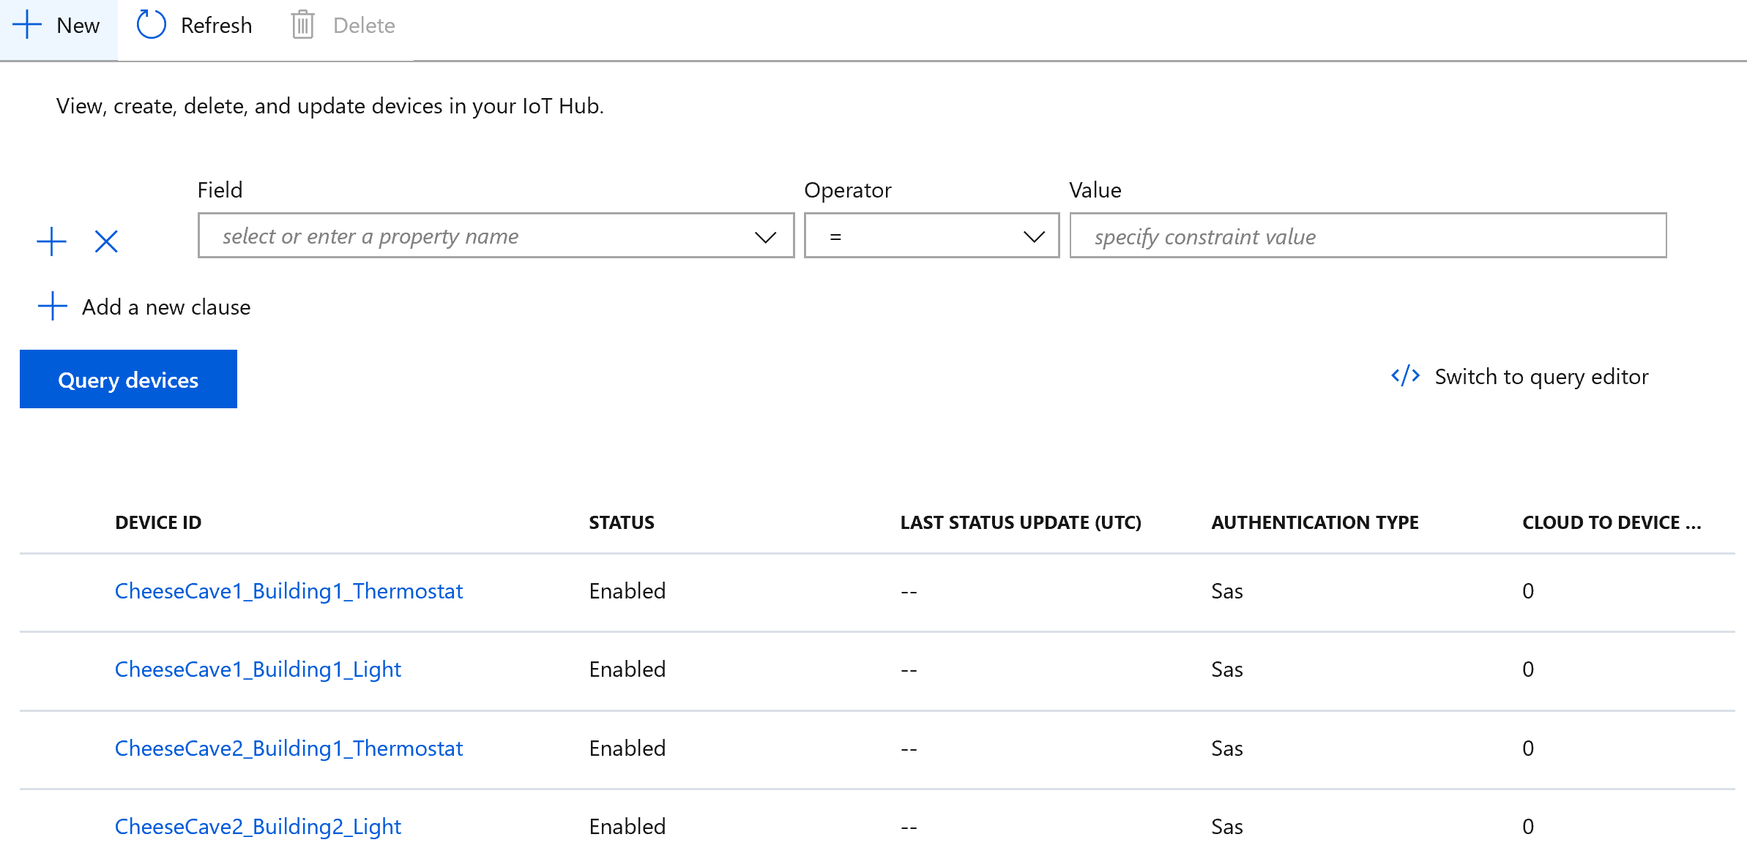
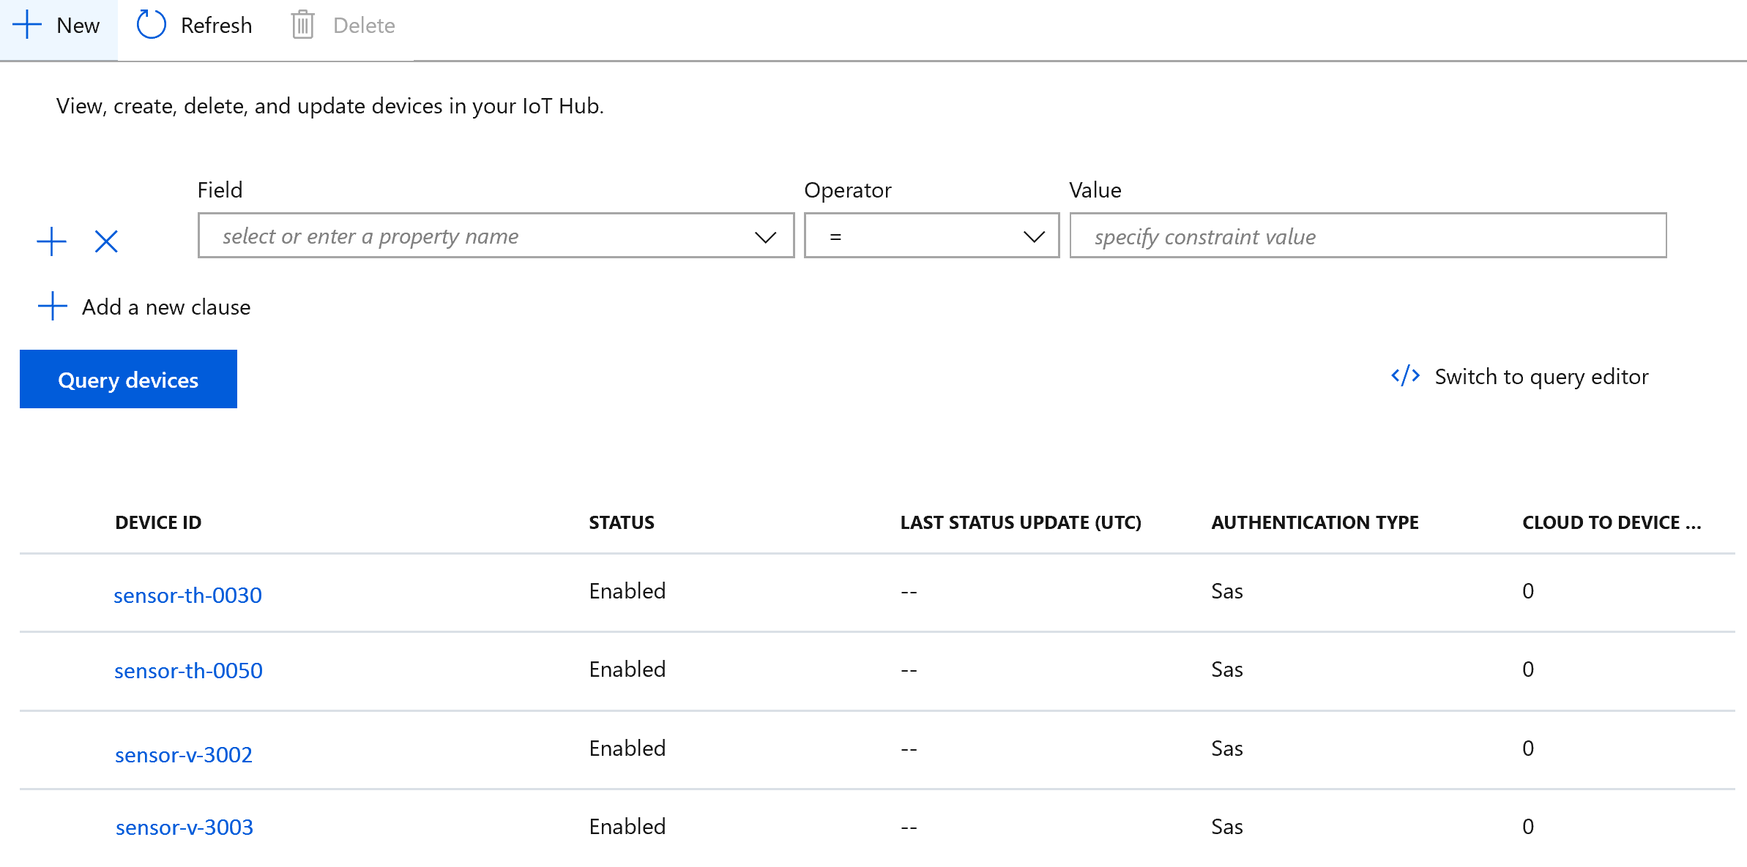
Global rename - still needs individual checks

diff --git a/Instructions/Labs/LAB_AK_12-setup-an-iot-edge-gateway.md b/Instructions/Labs/LAB_AK_12-setup-an-iot-edge-gateway.md
@@ -172,7 +172,7 @@ In this exercise, you will deploy an Ubuntu Server VM with Azure IoT Edge runtim
 
 1. In the resource group Name popup, under **Name**, enter **rg-az220vm** and then click **OK**.
 
-1. Under **Instance details**, in the **Virtual machine name** textbox, enter **AZ-220-VM-EDGEGW-{your-id}**.
+1. Under **Instance details**, in the **Virtual machine name** textbox, enter **vm-az220-gw-{your-id}**.
 
 1. In the **Region** dropdown, select the region where your Azure IoT Hub is provisioned.
 
@@ -208,7 +208,7 @@ In this exercise, you will deploy an Ubuntu Server VM with Azure IoT Edge runtim
 
 ### Exercise 3: Generate and Configure IoT Edge Device CA Certificates
 
-In this exercise, you will generate test certificates using Linux. You will do this on the `AZ-220-VM-EDGEGW-{your-id}` Virtual Machine using a helper script contained within the "Starter" folder for this lab that you created during lab 3 of this course.
+In this exercise, you will generate test certificates using Linux. You will do this on the `vm-az220-gw-{your-id}` Virtual Machine using a helper script contained within the "Starter" folder for this lab that you created during lab 3 of this course.
 
 1. Verify that the IoT Edge virtual machine has been deployed successfully.
 
@@ -224,11 +224,11 @@ In this exercise, you will generate test certificates using Linux. You will do t
 
     You can **Edit** your dashboard to rearrange the tiles if that makes it easier to access your resources.
  
-1. On the **rg-az220vm** resource group tile, to open the Edge Gateway virtual machine, click **AZ-220-GWVM-EDGE-{your-id}**.
+1. On the **rg-az220vm** resource group tile, to open the Edge Gateway virtual machine, click **vm-az220-gw-{your-id}**.
 
     > **Note**: Since the resource names are long and some are similar, be sure to select the VM, not the Disk, Public IP address, or Network security group.  
 
-1. At the top of the **AZ-220-GWVM-EDGE-{your-id}** blade, click **Connect**, and then click **SSH**.
+1. At the top of the **vm-az220-gw-{your-id}** blade, click **Connect**, and then click **SSH**.
 
 1. On the **Connect** pane, under **4. Run the example command below to connect to your VM**, copy the example command.
 
@@ -249,7 +249,7 @@ In this exercise, you will generate test certificates using Linux. You will do t
 1. Once connected, the terminal will change to show the name of the Linux VM, similar to the following. This tells you which VM you are connected to.
 
     ``` bash
-    username@AZ-220-VM-EDGEGW-{your-id}:~$
+    username@vm-az220-gw-{your-id}:~$
     ```
 
     > **Important**: When you connect, you will likely be told there are outstanding OS updates for the Edge VM.  We are ignoring this for our lab purposes, but in production, you always want to be sure to keep your Edge devices up-to-date.
@@ -337,7 +337,7 @@ In this exercise, you will generate test certificates using Linux. You will do t
     The version output will be similar to the following:
 
     ```bash
-    username@AZ-220-VM-EDGEGW:~/lab12$ iotedge version
+    username@vm-az220-gw:~/lab12$ iotedge version
     iotedge 1.0.8 (208b2204fd30e856d00b280112422130c104b9f0)
     ```
 
@@ -399,9 +399,9 @@ In this exercise, you will generate test certificates using Linux. You will do t
     exit
     ```
 
-    Next, you need to "download" the `MyEdgeDeviceCA` certificate from the `AZ-220-VM-EDGEGW` virtual machine so that it can be used to configure the IoT Edge device enrollment within Azure IoT Hub Device Provisioning Service.
+    Next, you need to "download" the `MyEdgeDeviceCA` certificate from the `vm-az220-gw` virtual machine so that it can be used to configure the IoT Edge device enrollment within Azure IoT Hub Device Provisioning Service.
 
-1. At the Cloud Shell command prompt, to download the `~/lab12` directory from the **AZ-220-VM-EDGEGW** virtual machine to the **Cloud Shell** storage, enter the following commands:
+1. At the Cloud Shell command prompt, to download the `~/lab12` directory from the **vm-az220-gw** virtual machine to the **Cloud Shell** storage, enter the following commands:
 
     ```bash
     mkdir lab12
@@ -428,7 +428,7 @@ In this exercise, you will generate test certificates using Linux. You will do t
     certs       index.txt  index.txt.attr.old  newcerts       private              serial.old
     ```
 
-    Once the files are copied to Cloud Shell storage from the `AZ-220-VM-EDGEGW` virtual machine, you will be able to easily download any of the IoT Edge Device certificate and key files to your local machine as necessary. Files can be downloaded from the Cloud Shell using the `download <filename>` command.  We will do this later in the lab.
+    Once the files are copied to Cloud Shell storage from the `vm-az220-gw` virtual machine, you will be able to easily download any of the IoT Edge Device certificate and key files to your local machine as necessary. Files can be downloaded from the Cloud Shell using the `download <filename>` command.  We will do this later in the lab.
 
 ### Exercise 4: Create IoT Edge Device Identity in IoT Hub using Azure Portal
 
@@ -446,7 +446,7 @@ In this exercise, you will use Azure IoT Hub to create a new IoT Edge Device ide
 
 1. At the top of the pane, click **Add an IoT Edge device**.
 
-1. On the **Create a device** blade, in the **Device ID** field, enter **AZ-220-VM-EDGEGW-{your-id}**.
+1. On the **Create a device** blade, in the **Device ID** field, enter **vm-az220-gw-{your-id}**.
 
     Be sure to replace {your-id} with the value that you created at the beginning of the course. This is the device identity will be used for authentication and access control.
 
@@ -458,15 +458,15 @@ In this exercise, you will use Azure IoT Hub to create a new IoT Edge Device ide
 
     After a moment, the new IoT Edge Device will added to the list of IoT Edge devices.
 
-1. Under **Device ID**, click **AZ-220-VM-EDGEGW-{your-id}**.
+1. Under **Device ID**, click **vm-az220-gw-{your-id}**.
 
-1. On the **AZ-220-VM-EDGEGW-{your-id}** blade, copy the **Primary Connection String**.
+1. On the **vm-az220-gw-{your-id}** blade, copy the **Primary Connection String**.
 
     A copy button is provided to the right of the value.
 
 1. Save the value of the **Primary Connection String** to a file, making a note about which device it is associated with.
 
-1. On the **AZ-220-VM-EDGEGW-{your-id}** blade, notice that the list of **Modules** is limited to **\$edgeAgent** and **\$edgeHub**.
+1. On the **vm-az220-gw-{your-id}** blade, notice that the list of **Modules** is limited to **\$edgeAgent** and **\$edgeHub**.
 
     The IoT Edge Agent (`$edgeAgent`) and IoT Edge Hub (`$edgeHub`) modules are a part of the IoT Edge Runtime. The Edge Hub is responsible for communication, and the Edge Agent deploys and monitors the modules on the device.
 
@@ -495,21 +495,21 @@ In this exercise, you will use Azure IoT Hub to create a new IoT Edge Device ide
 
 ### Exercise 5: Setup IoT Edge Gateway Hostname
 
-In this exercise, you will configure the DNS name for Public IP Address of the **AZ-220-VM-EDGEGW-{your-id}** simulated Edge device, and configure that DNS name as the `hostname` of the IoT Edge Gateway device.
+In this exercise, you will configure the DNS name for Public IP Address of the **vm-az220-gw-{your-id}** simulated Edge device, and configure that DNS name as the `hostname` of the IoT Edge Gateway device.
 
 1. If necessary, log in to your Azure portal using your Azure account credentials.
 
     If you have more than one Azure account, be sure that you are logged in with the account that is tied to the subscription that you will be using for this course.
 
-1. On your Dashboard page, to open your IoT Edge virtual machine, click **AZ-220-VM-EDGEGW-{your-id}**.
+1. On your Dashboard page, to open your IoT Edge virtual machine, click **vm-az220-gw-{your-id}**.
 
-1. On the **AZ-220-VM-EDGEGW-{your-id}** blade, in the upper section, locate the **DNS name** field.
+1. On the **vm-az220-gw-{your-id}** blade, in the upper section, locate the **DNS name** field.
 
     If the "Essentials" section at the top of the Overview blade is collapsed, to expand it, click **Essentials**.
 
 1. To the right of the **DNS name** field, click **Configure**.
 
-1. On the **AZ-220-VM-EDGEGW-{your-id}-ip - Configuration** blade, in the **DNS name label** field, enter **az-220-vm-edgegw-{your-id}**
+1. On the **vm-az220-gw-{your-id}-ip - Configuration** blade, in the **DNS name label** field, enter **az-220-vm-edgegw-{your-id}**
 
     This label must be globally unique, and only lowercase letters, numbers and hyphens.
 
@@ -519,7 +519,7 @@ In this exercise, you will configure the DNS name for Public IP Address of the *
 
     It should be similar to the following: `.westus2.cloudapp.azure.com`, although yours will probably list a different region.
 
-    The full DNS name is comprised of the `AZ-220-VM-EDGEGW-{your-id}` value suffixed by this text located below the **DNS name label** field.
+    The full DNS name is comprised of the `vm-az220-gw-{your-id}` value suffixed by this text located below the **DNS name label** field.
 
     For example, a full DNS name could be:
 
@@ -529,11 +529,11 @@ In this exercise, you will configure the DNS name for Public IP Address of the *
 
     All Public IP Address DNS names in the standard Azure commercial cloud will be at the **.cloudapp.azure.com** domain name. This example is for the VM being hosted in the **westus2** Azure region. This part of the DNS name will vary depending on what Azure region the VM is hosted within.
 
-    Setting the DNS name for the Public IP Address of the **AZ-220-VM-EDGEGW** virtual machine will give it a FQDN (Fully Qualified Domain Name) for the downstream device(s) to use as the `GatewayHostName` to connect to it. Since the VM, in this case, is accessible across the Internet, an Internet DNS name is needed. If the Azure IoT Edge Gateway were hosted in a Private or Hybrid network, then the machine name would meet the requirements of a `GatewayHostName` for on-premises downstream devices to connect.
+    Setting the DNS name for the Public IP Address of the **vm-az220-gw** virtual machine will give it a FQDN (Fully Qualified Domain Name) for the downstream device(s) to use as the `GatewayHostName` to connect to it. Since the VM, in this case, is accessible across the Internet, an Internet DNS name is needed. If the Azure IoT Edge Gateway were hosted in a Private or Hybrid network, then the machine name would meet the requirements of a `GatewayHostName` for on-premises downstream devices to connect.
 
-1. Make a record of the full DNS name for your **AZ-220-VM-EDGEGW-{your-id}** virtual machine, and save it for reference later.
+1. Make a record of the full DNS name for your **vm-az220-gw-{your-id}** virtual machine, and save it for reference later.
 
-1. Navigate back to the **AZ-220-VM-EDGEGW-{your-id}** blade, and then click **Refresh**. 
+1. Navigate back to the **vm-az220-gw-{your-id}** blade, and then click **Refresh**. 
 
     > **Note**: If you are still in the IP configuration blade, you can use the breadcrumb trail at the top of the page to get back to the VM quickly.  In that case, at the top of the **Overview** pane, use the Refresh button to update the DNS name in the display.
 
@@ -545,7 +545,7 @@ In this exercise, you will configure the DNS name for Public IP Address of the *
 
 1. Under **4. Run the example command below to connect to your VM.**, to copy the command, click **Copy to clipboard**.
 
-    This sample SSH command can be used to connect to the virtual machine that contains the IP Address for the VM and the Administrator username. Now that the DNS name label has been configured, the command should look similar to the following: `ssh demouser@AZ-220-VM-EDGEGW.eastus.cloudapp.azure.com`
+    This sample SSH command can be used to connect to the virtual machine that contains the IP Address for the VM and the Administrator username. Now that the DNS name label has been configured, the command should look similar to the following: `ssh demouser@vm-az220-gw.eastus.cloudapp.azure.com`
 
     > **Note**: If the sample command includes `-i <private key path>`, use a text editor to remove that portion of the command, and then copy the updated command into the clipboard.
  
@@ -571,7 +571,7 @@ In this exercise, you will configure the DNS name for Public IP Address of the *
 
 1. Set the **hostname** value to the value of the **Full DNS name** that you saved earlier.
 
-    This is the **Full DNS name** of the **AZ-220-VM-EDGEGW-{your-id}** virtual machine.
+    This is the **Full DNS name** of the **vm-az220-gw-{your-id}** virtual machine.
 
     > **Note**: If you did not save the name, you can find it in the **Overview** pane of the virtual machine.  You can even copy it from there to paste into the Cloud Shell window.
 
@@ -623,7 +623,7 @@ In this exercise, you will connect the IoT Edge Device to Azure IoT Hub.
     After a short time, this command will show the `edgeAgent` and `edgeHub` modules are running. The output will look similar to the following:
 
     ```text
-    root@AZ-220-VM-EDGEGW:~# iotedge list
+    root@vm-az220-gw:~# iotedge list
     NAME             STATUS           DESCRIPTION      CONFIG
     edgeHub          running          Up 15 seconds    mcr.microsoft.com/azureiotedge-hub:1.0
     edgeAgent        running          Up 18 seconds    mcr.microsoft.com/azureiotedge-agent:1.0
@@ -653,11 +653,11 @@ In a production scenario, you will want to open only the minimum number of ports
 
     If you have more than one Azure account, be sure that you are logged in with the account that is tied to the subscription that you will be using for this course.
 
-1. On your Azure dashboard, locate the Resources tile that contains the **AZ-220-VM-EDGEGW-{your-id}** VM.
+1. On your Azure dashboard, locate the Resources tile that contains the **vm-az220-gw-{your-id}** VM.
 
     Notice that this resource group tile also includes a link to the associated Network security group.
   
-1. On the Resources tile, click **AZ-220-VM-EDGEGW-{your-id}-nsg**.
+1. On the Resources tile, click **vm-az220-gw-{your-id}-nsg**.
 
 1. On the **Network security group** blade, left side navigation menu under **Settings**, click **Inbound security rules**.
 
@@ -714,7 +714,7 @@ In this exercise, you will create a new IoT Device identity in Azure IoT Hub for
 
     We will be configuring this downstream device to communicate with IoT Hub through the IoT Edge Gateway device that we created earlier in this lab.
 
-1. On the **Set an Edge device as a parent device** blade, under **Device ID**, click **AZ-220-VM-EDGEGW-{your-id}**, and then click **OK**.
+1. On the **Set an Edge device as a parent device** blade, under **Device ID**, click **vm-az220-gw-{your-id}**, and then click **OK**.
 
 1. On the **Create a device** blade, to create the IoT Device identity for the downstream device, click **Save**.
 
@@ -770,7 +770,7 @@ In this exercise, you will configure a pre-built Downstream Device to connect to
 
 1. Locate the declaration for the `s_connectionString` variable, and then replace the placeholder value with the IoT Hub Connection String for the `DownstreamDevice1` IoT Device.
 
-1. Modify `s_connectionString` value to include a `GatewayHostName` property, and set the value of GatewayHostName to the full DNS name for the IoT Edge Gateway Device (`AZ-220-VM-EDGEGW`).
+1. Modify `s_connectionString` value to include a `GatewayHostName` property, and set the value of GatewayHostName to the full DNS name for the IoT Edge Gateway Device (`vm-az220-gw`).
 
     The Connection String will match the following format:
 
@@ -782,12 +782,12 @@ In this exercise, you will configure a pre-built Downstream Device to connect to
 
     * `<IoT-Hub-Name>`: The Name of the Azure IoT Hub.
     * `<IoT-Device-Primary-Key>`: The Primary Key for the **DownstreamDevice1** IoT Device in Azure IoT Hub.
-    * `<IoT-Edge-DNS-Name>`: The DNS name set for the **AZ-220-VM-EDGEGW**.
+    * `<IoT-Edge-DNS-Name>`: The DNS name set for the **vm-az220-gw**.
 
     The `s_connectionString` variable with the Connection String value will look similar to the following:
 
     ```csharp
-    private readonly static string s_connectionString = "HostName=iot-az220-training-1119.azure-devices.net;DeviceId=DownstreamDevice1;SharedAccessKey=ygNT/WqWs2d8AbVD9NAlxcoSS2rr628fI7YLPzmBdgE=;GatewayHostName=AZ-220-VM-EDGEGW.eastus.cloudapp.azure.com";
+    private readonly static string s_connectionString = "HostName=iot-az220-training-1119.azure-devices.net;DeviceId=DownstreamDevice1;SharedAccessKey=ygNT/WqWs2d8AbVD9NAlxcoSS2rr628fI7YLPzmBdgE=;GatewayHostName=vm-az220-gw.eastus.cloudapp.azure.com";
     ```
 
 1. On the **File** menu, click **Save**.

diff --git a/Instructions/Labs/LAB_AK_11-introduction-to-azure-iot-edge.md b/Instructions/Labs/LAB_AK_11-introduction-to-azure-iot-edge.md
@@ -168,7 +168,7 @@ In this exercise, you will deploy an Ubuntu Server VM with Azure IoT Edge runtim
 
 1. In the popup for the new reasouce group, under **Name**, enter **rg-az220vm** and then click **OK**.
 
-1. In the **Virtual machine name** textbox, enter **AZ-220-VM-EDGE**
+1. In the **Virtual machine name** textbox, enter **vm-az220-edge**
 
 1. In the **Region** dropdown, select the region where your Azure IoT Hub is provisioned.
 
@@ -300,7 +300,7 @@ In this exercise, you will connect the IoT Edge Device to Azure IoT Hub.
 
     You can **Edit** your dashboard to rearrange the tiles if that makes it easier to access your resources.
  
-1. On the **rg-az220vm** resource group tile, to open the IoT Edge virtual machine, click **AZ-220-VM-EDGE**.
+1. On the **rg-az220vm** resource group tile, to open the IoT Edge virtual machine, click **vm-az220-edge**.
 
 1. At the top of the **Overview** pane, click **Connect**, and then click **SSH**.
 
@@ -323,7 +323,7 @@ In this exercise, you will connect the IoT Edge Device to Azure IoT Hub.
 1. Once connected, the terminal command prompt will change to show the name of the Linux VM, similar to the following.
 
     ```cmd/sh
-    username@AZ-220-VM-EDGE:~$
+    username@vm-az220-edge:~$
     ```
 
     This tells you which VM you are connected to.
@@ -496,7 +496,7 @@ In this exercise, you will add a Simulated Temperature Sensor as a custom IoT Ed
  
 1. Open a Cloud Shell session (if it is not still open).
 
-    If you are no longer connected to the `AZ-220-VM-EDGE` virtual machine, connect using **SSH** as before.
+    If you are no longer connected to the `vm-az220-edge` virtual machine, connect using **SSH** as before.
 
 1. At the Cloud Shell command prompt, to list the modules currently running on the IoT Edge Device, enter the following command:
 
@@ -507,7 +507,7 @@ In this exercise, you will add a Simulated Temperature Sensor as a custom IoT Ed
 1. The output of the command look similar to the following. 
 
     ```cmd/sh
-    demouser@AZ-220-VM-EDGE:~$ iotedge list
+    demouser@vm-az220-edge:~$ iotedge list
     NAME             STATUS           DESCRIPTION      CONFIG
     edgeHub          running          Up a minute      mcr.microsoft.com/azureiotedge-hub:1.0
     edgeAgent        running          Up 26 minutes    mcr.microsoft.com/azureiotedge-agent:1.0
@@ -525,7 +525,7 @@ In this exercise, you will add a Simulated Temperature Sensor as a custom IoT Ed
     The output of the command looks similar to the following:
 
     ```cmd/sh
-    demouser@AZ-220-VM-EDGE:~$ iotedge logs tempsensor
+    demouser@vm-az220-edge:~$ iotedge logs tempsensor
     11/14/2019 18:05:02 - Send Json Event : {"machine":{"temperature":41.199999999999925,"pressure":1.0182182583425192},"ambient":{"temperature":21.460937846433808,"humidity":25},"timeCreated":"2019-11-14T18:05:02.8765526Z"}
     11/14/2019 18:05:03 - Send Json Event : {"machine":{"temperature":41.599999999999923,"pressure":1.0185790159334602},"ambient":{"temperature":20.51992724976499,"humidity":26},"timeCreated":"2019-11-14T18:05:03.3789786Z"}
     11/14/2019 18:05:03 - Send Json Event : {"machine":{"temperature":41.999999999999922,"pressure":1.0189397735244012},"ambient":{"temperature":20.715225311096397,"humidity":26},"timeCreated":"2019-11-14T18:05:03.8811372Z"}
@@ -802,7 +802,7 @@ To prepare the Stream Analytics job to be deployed to an IoT Edge Device, it nee
     It can take a minute for the new Stream Analytics module to be deployed to the IoT Edge Device. Once it's there, you will see it in the list output by this command.
 
     ```cmd/sh
-    demouser@AZ-220-VM-EDGE:~$ iotedge list
+    demouser@vm-az220-edge:~$ iotedge list
     NAME               STATUS           DESCRIPTION      CONFIG
     asa-az220-training-CP1119  running          Up a minute      mcr.microsoft.com/azure-stream-analytics/azureiotedge:1.0.5
     edgeAgent          running          Up 6 hours       mcr.microsoft.com/azureiotedge-agent:1.0

diff --git a/Instructions/Labs/LAB_AK_09-iot-hub-integration-with-azure-event-grid.md b/Instructions/Labs/LAB_AK_09-iot-hub-integration-with-azure-event-grid.md
@@ -165,9 +165,9 @@ In this exercise, you will create a new Azure Logic App that will be triggered v
 
 1. In the **Resource group** dropdown, under **Select existing**, click **rg-az220**.
 
-1. Under **Instance details**, in the **Name** field, enter **AZ-220-LogicApp-{your-id}**
+1. Under **Instance details**, in the **Name** field, enter **logic-az220-training-{your-id}**
 
-    For example: **AZ-220-LogicApp-CP191218**
+    For example: **logic-az220-training-cp191218**
 
     The name of your Azure Logic App must be globally unique because it is a publicly accessible resource that you must be able to access from any IP connected device.
 
@@ -187,7 +187,7 @@ In this exercise, you will create a new Azure Logic App that will be triggered v
 
 1. On your resource group tile, click the link to the Logic App resource that was just deployed.
 
-    If the **AZ-220-LogicApp-{your-id}** Logic app is not displayed, refresh the resource group tile.
+    If the **logic-az220-training-{your-id}** Logic app is not displayed, refresh the resource group tile.
 
     > **Note**: When navigating to the **Logic App** for the first time, the **Logic Apps Designer** pane will be displayed. If this page doesn't come up automatically, click **Logic app designer** under the **Development Tools** section on the **Logic App** blade.
 
@@ -275,7 +275,7 @@ In this exercise, you will create a new Azure Logic App that will be triggered v
 
 1. In the **Body** field, enter the following message content:
 
-    ```
+    ```text
     This is an automated email to inform you that:
 
     {eventType} occurred at {eventTime}
@@ -361,19 +361,9 @@ In this exercise, you will create an Event Subscription within Azure IoT Hub to 
 
     * **Operator**: Select `String begins with`
 
-    * **Value**:  Enter `devices/CheeseCave1_`
+    * **Value**:  Enter `devices/sensor-th`
 
-    We will use this value to filter for device events associated with the Cheese Cave 1 location (CheeseCave1).
-
-1. To create a second filter, click **Add new filter**, and then fill in the fields with these values:
-
-    * **Key**: Enter `Subject`
-
-    * **Operator**: Select `String ends with`
-
-    * **Value**: Enter `_Thermostat`
-
-    We will use this value to filter for device events related to temperature.
+    We will use this value to filter for device events associated with the Cheese Cave temperature and humidity sensors.
 
 1. To save the event subscription, click **Create**.
 

diff --git a/Instructions/Labs/LAB-consolidated-scenario.md b/Instructions/Labs/LAB-consolidated-scenario.md
@@ -531,7 +531,7 @@ In this exercise, you will deploy an Ubuntu Server VM with Azure IoT Edge runtim
 
 #### Exercise 3: Generate and Configure IoT Edge Device CA Certificates
 
-In this exercise, you will generate test certificates using Linux. You will do this on the `AZ-220-VM-EDGEGW-{your-id}` Virtual Machine using a helper script contained within the `Azure/IoTEdge` GitHub project.
+In this exercise, you will generate test certificates using Linux. You will do this on the `vm-az220-gw-{your-id}` Virtual Machine using a helper script contained within the `Azure/IoTEdge` GitHub project.
 
 #### Exercise 4: Create IoT Edge Device Identity in IoT Hub using Azure Portal
 
@@ -539,7 +539,7 @@ In this exercise, you will create a new IoT Edge Device identity in Azure IoT Hu
 
 #### Exercise 5: Setup IoT Edge Gateway Hostname
 
-In this exercise, you will configure the DNS name for Public IP Address of the **AZ-220-VM-EDGEGW-{your-id}**, and configure that DNS name as the `hostname` of the IoT Edge Gateway device.
+In this exercise, you will configure the DNS name for Public IP Address of the **vm-az220-gw-{your-id}**, and configure that DNS name as the `hostname` of the IoT Edge Gateway device.
 
 #### Exercise 6: Connect IoT Edge Gateway Device to IoT Hub
 
